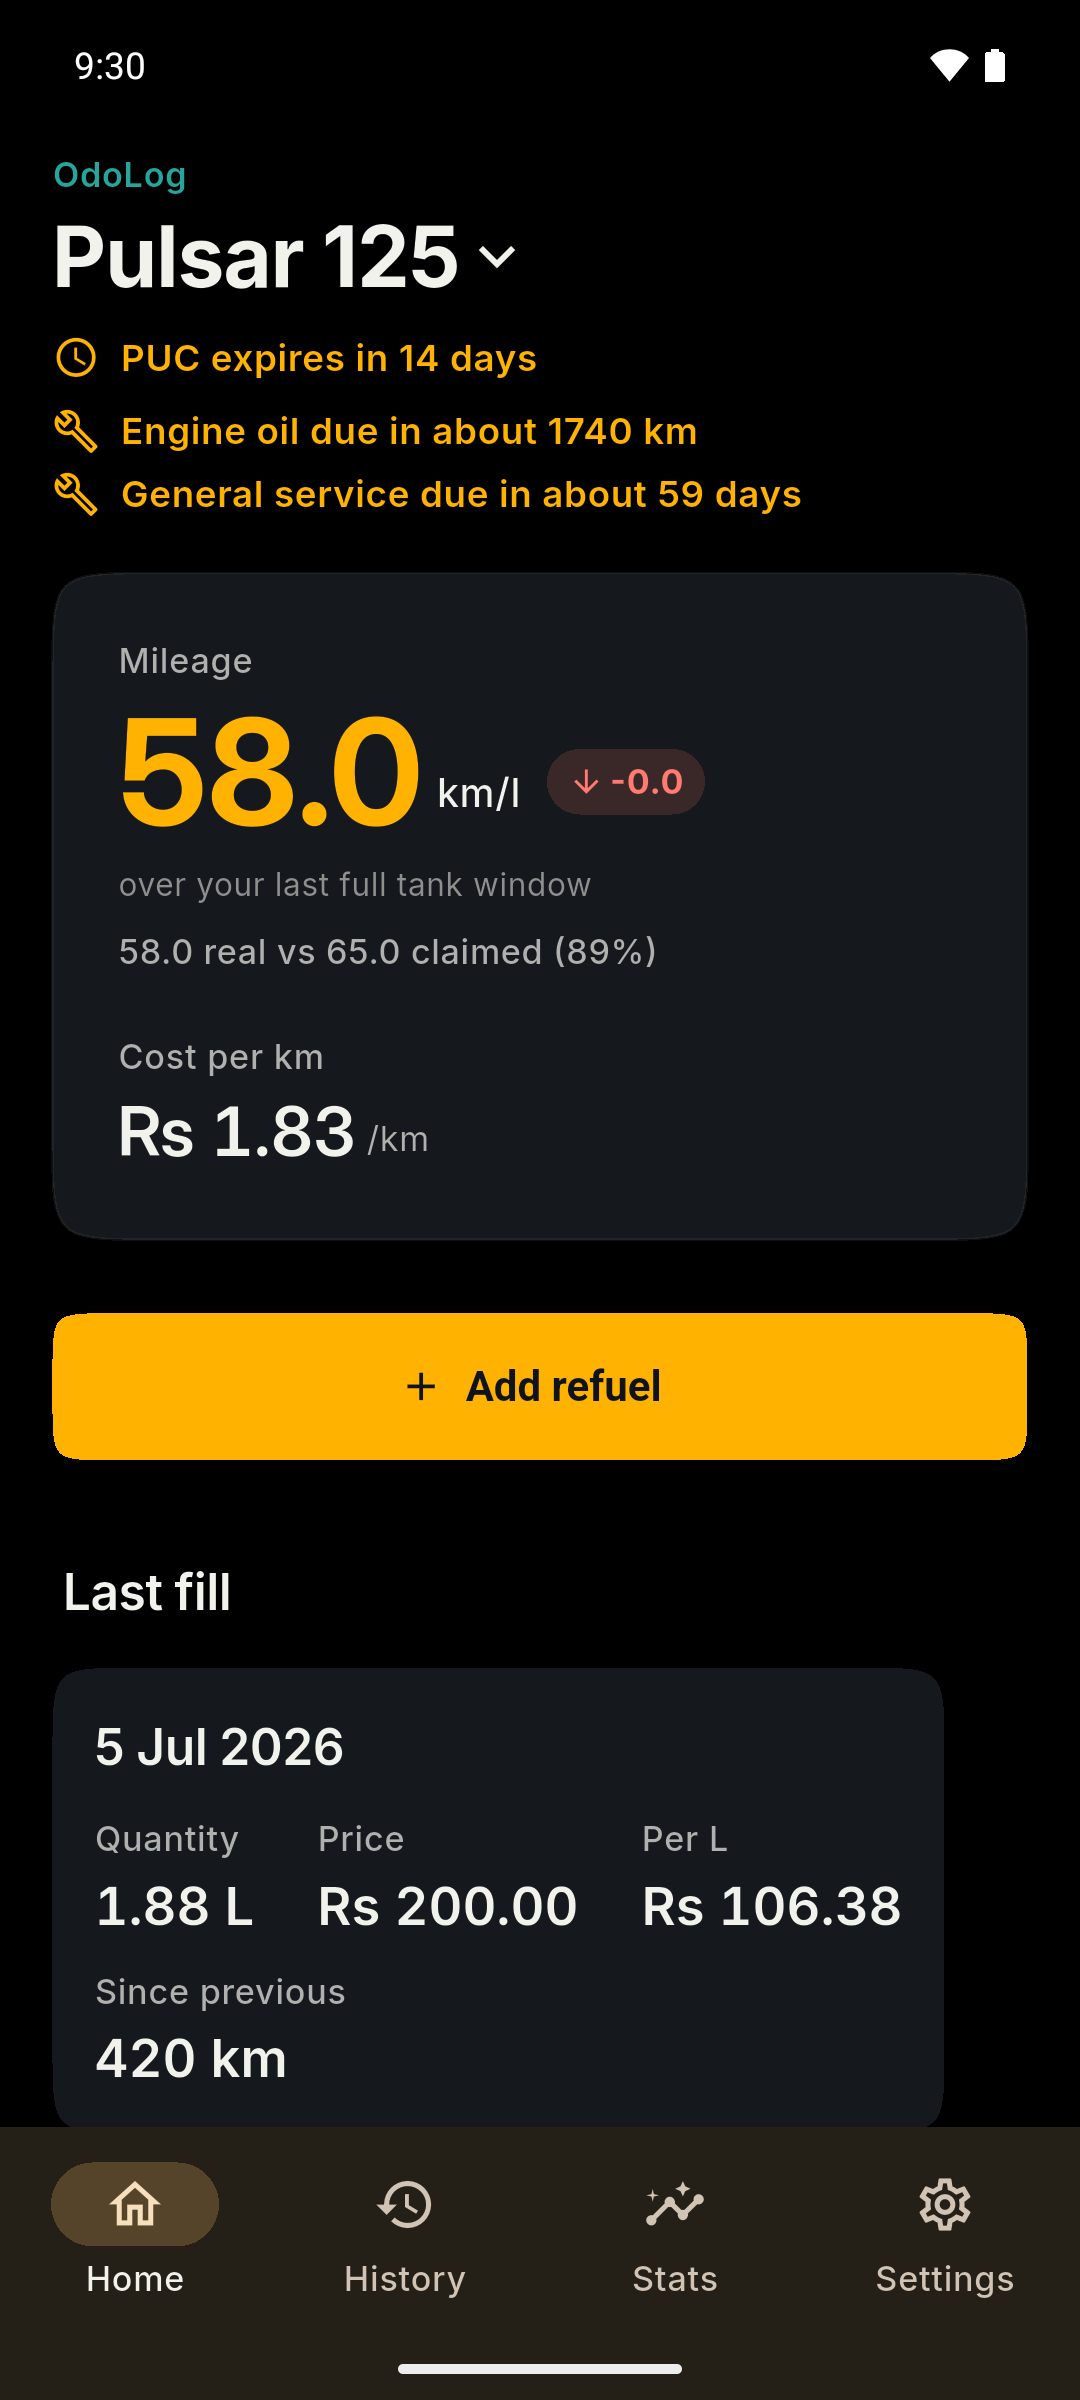
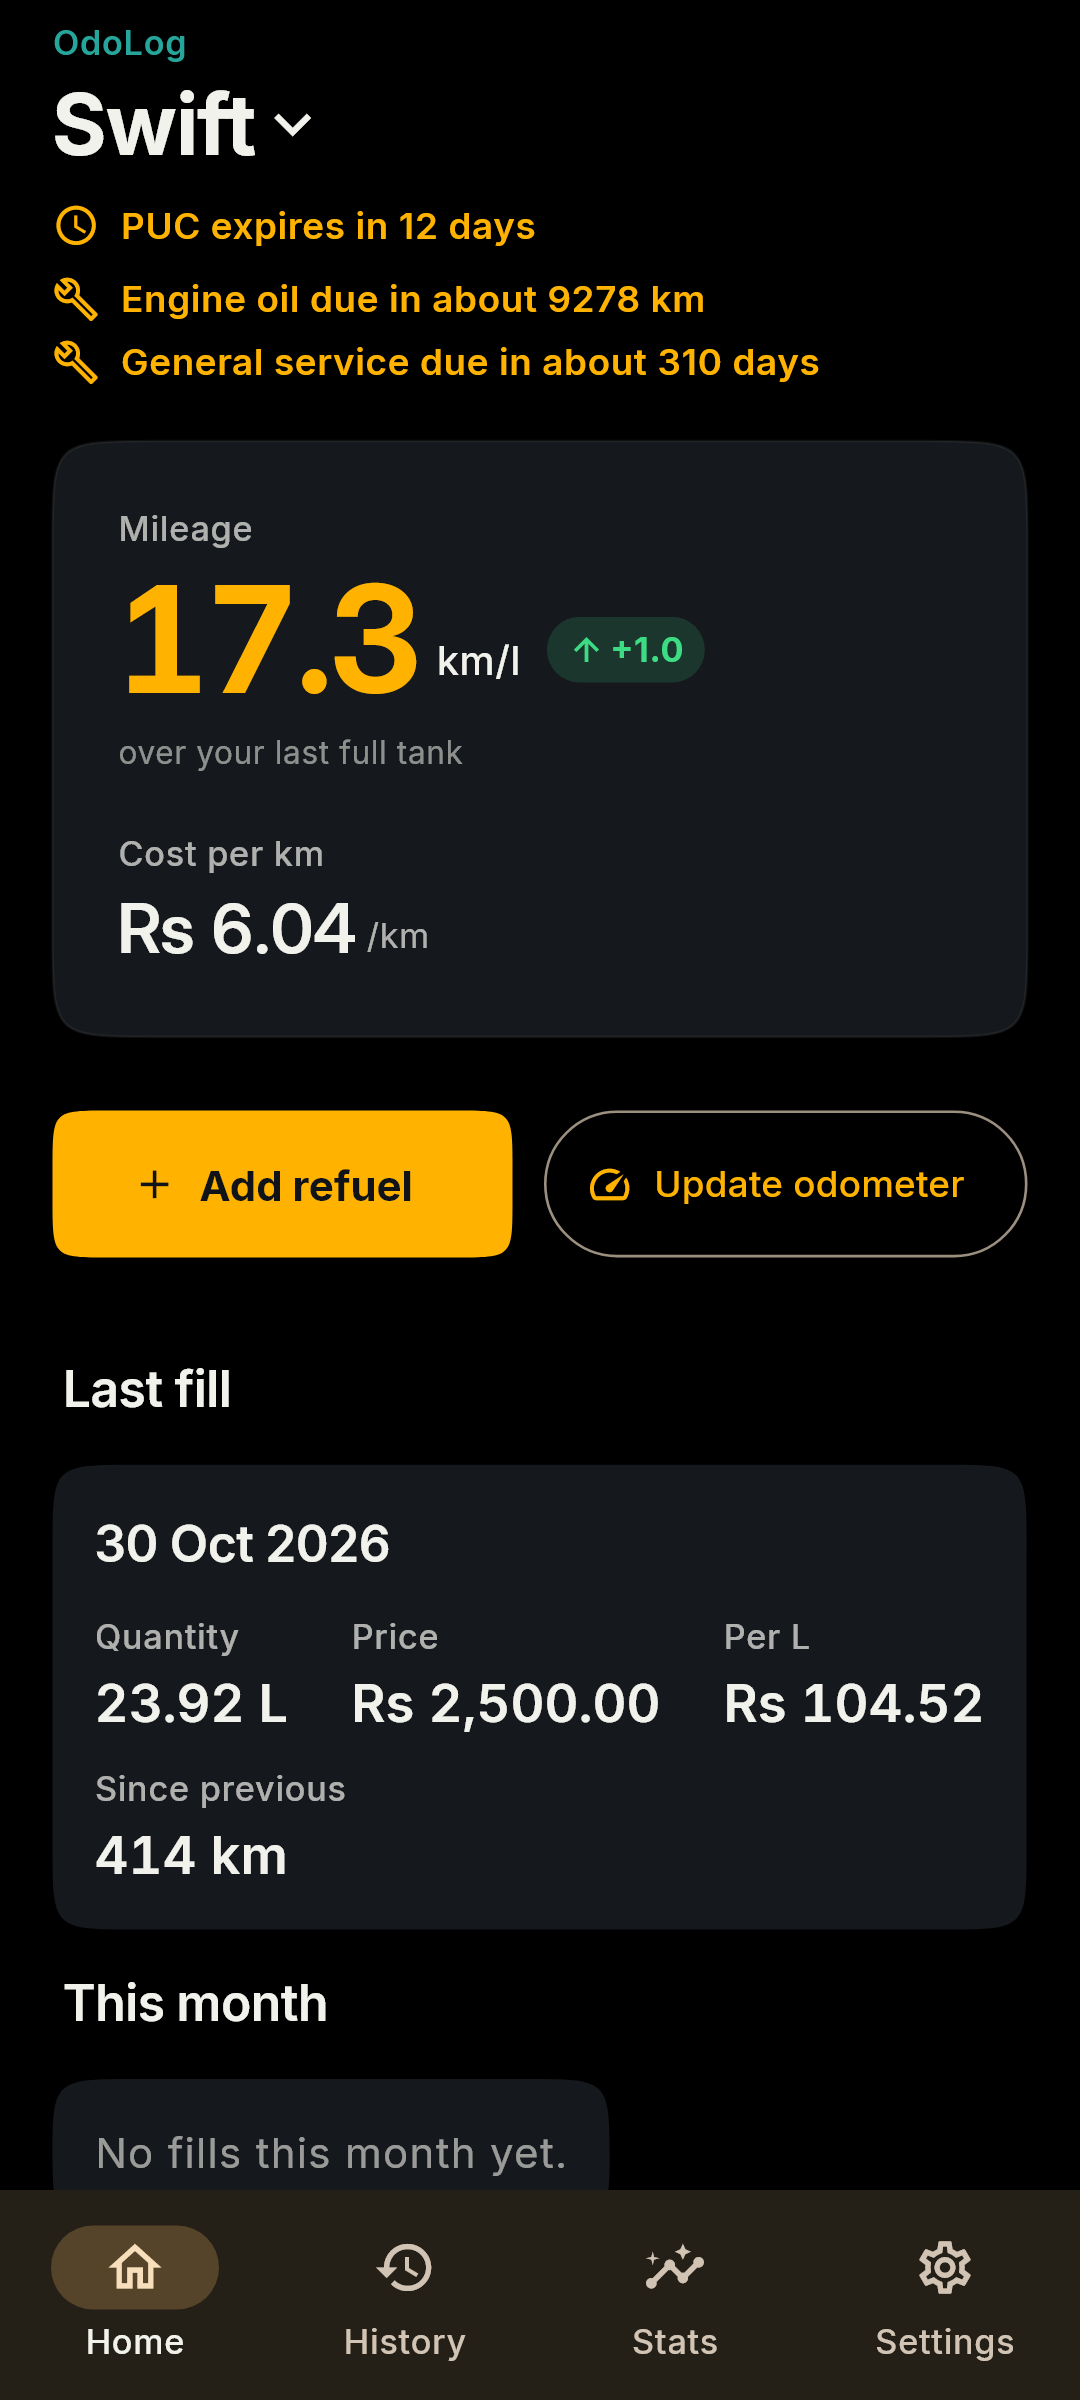
docs: recapture app screenshots with a service log shot

diff --git a/README.md b/README.md
@@ -21,7 +21,7 @@ It is 100% offline. No account, no cloud, no ads, no analytics. Your data lives 
   </tr>
   <tr>
     <td><img src="docs/screenshots/refuel.png" width="220" alt="Log a refuel" /></td>
-    <td><img src="docs/screenshots/vehicles.png" width="220" alt="Vehicle list" /></td>
+    <td><img src="docs/screenshots/service.png" width="220" alt="Service log with due reminders" /></td>
     <td><img src="docs/screenshots/home_dark.png" width="220" alt="Home dashboard in dark theme" /></td>
   </tr>
 </table>
